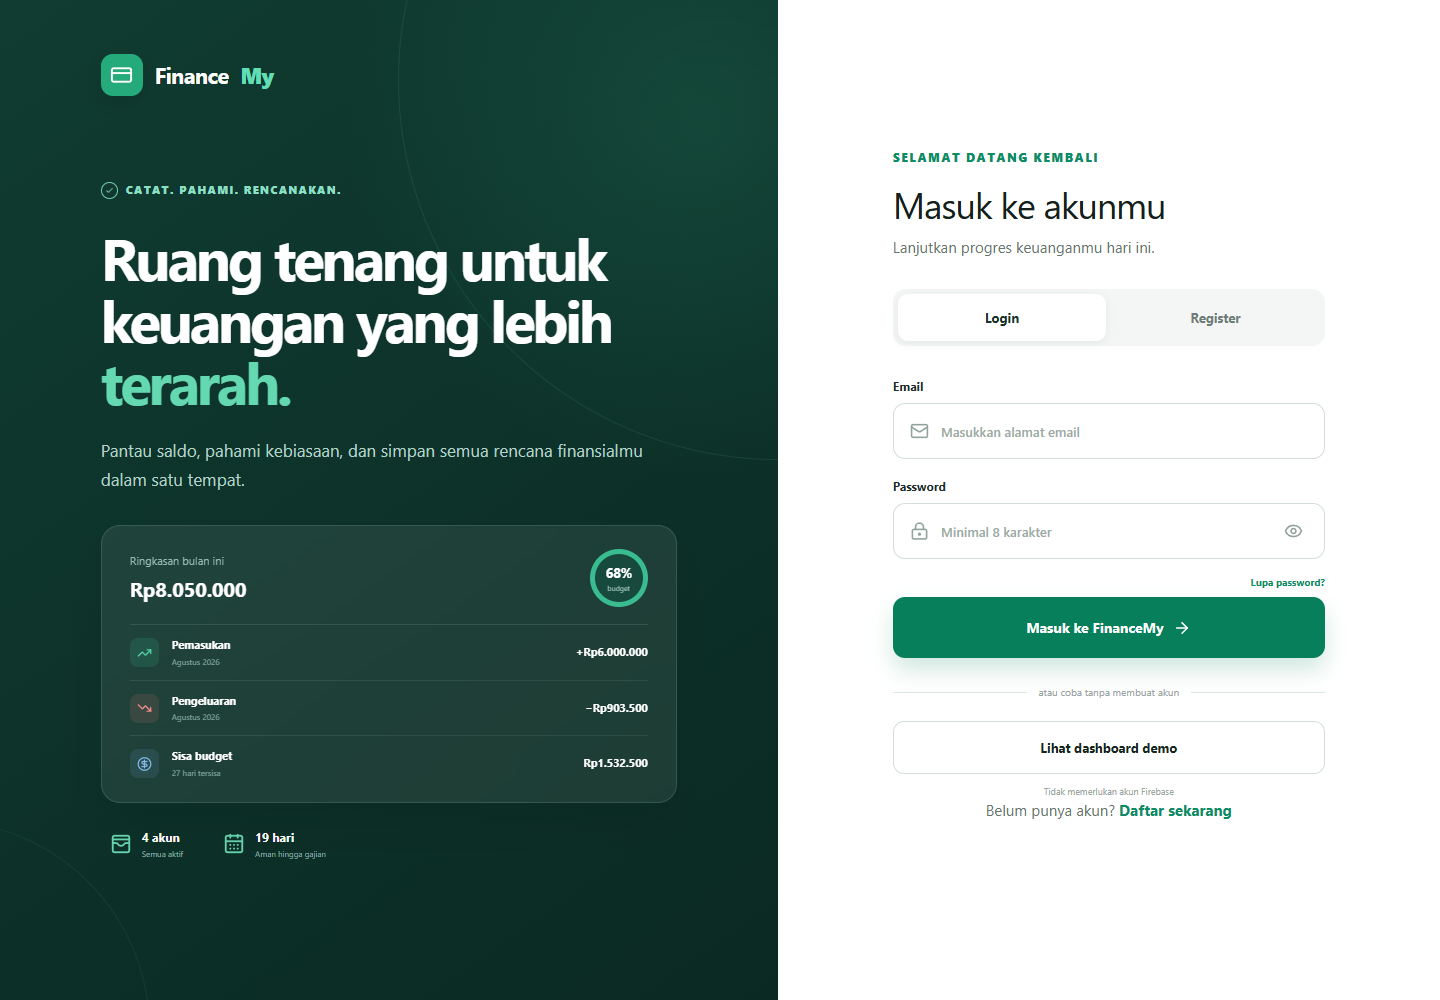
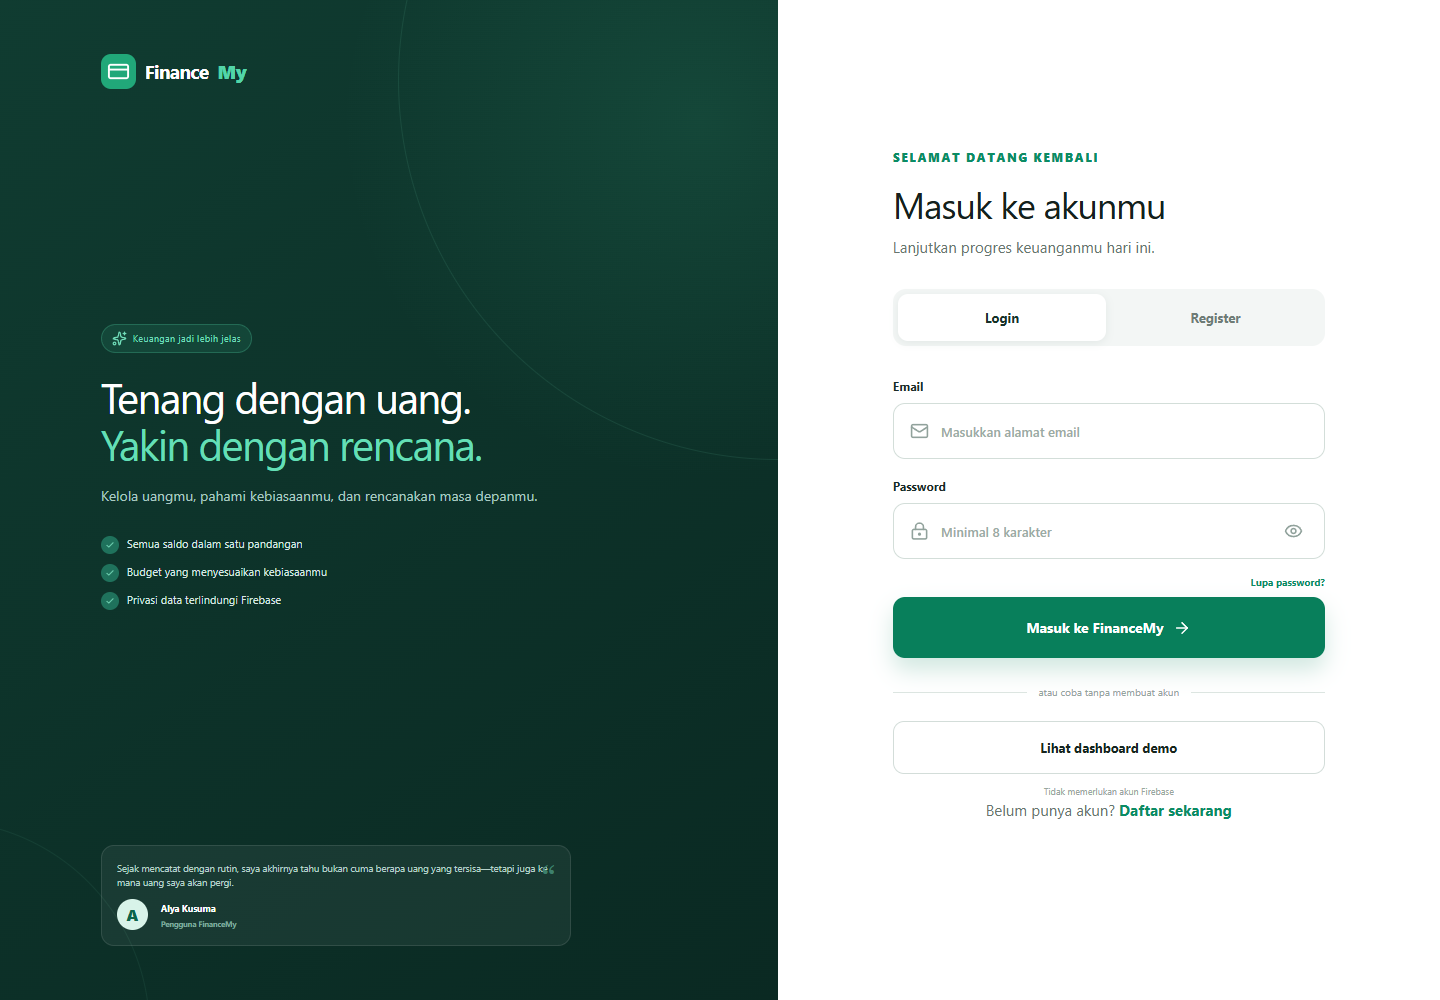
commit desain sedikit

diff --git a/FinanceMy/src/pages/auth/AuthPage.jsx b/FinanceMy/src/pages/auth/AuthPage.jsx
@@ -1,7 +1,7 @@
 import { useState } from 'react'
 import { Link, useNavigate } from 'react-router-dom'
 import { useForm } from 'react-hook-form'
-import { ArrowRight, CalendarDays, Check, CircleDollarSign, CreditCard, Eye, EyeOff, LockKeyhole, Mail, ShieldCheck, TrendingDown, TrendingUp, UserRound, WalletCards } from 'lucide-react'
+import { ArrowRight, Check, CreditCard, Eye, EyeOff, LockKeyhole, Mail, ShieldCheck, Sparkles, UserRound } from 'lucide-react'
 import { useAuth } from '../../context/AuthContext'
 
 const messages = {
@@ -47,21 +47,18 @@ export default function AuthPage({ mode = 'login' }) {
 
   return <main className="auth-reference-page">
     <section className="auth-reference-visual">
-      <Link className="reference-brand" to="/"><span><CreditCard /></span>Finance<b>My</b></Link>
-      <div className="reference-hero">
-        <span className="reference-kicker"><Check /> CATAT. PAHAMI. RENCANAKAN.</span>
-        <h1>Ruang tenang untuk keuangan yang lebih <em>terarah.</em></h1>
-        <p>Pantau saldo, pahami kebiasaan, dan simpan semua rencana finansialmu dalam satu tempat.</p>
-
-        <article className="reference-summary-card">
-          <header><div><small>Ringkasan bulan ini</small><strong>Rp8.050.000</strong></div><span><b>68%</b><small>budget</small></span></header>
-          <div className="reference-summary-row"><i className="income"><TrendingUp /></i><span><strong>Pemasukan</strong><small>Agustus 2026</small></span><b>+Rp6.000.000</b></div>
-          <div className="reference-summary-row"><i className="expense"><TrendingDown /></i><span><strong>Pengeluaran</strong><small>Agustus 2026</small></span><b>−Rp903.500</b></div>
-          <div className="reference-summary-row"><i className="balance"><CircleDollarSign /></i><span><strong>Sisa budget</strong><small>27 hari tersisa</small></span><b>Rp1.532.500</b></div>
-        </article>
-
-        <div className="reference-mini-stats"><span><WalletCards/><strong>4 akun<small>Semua aktif</small></strong></span><span><CalendarDays/><strong>19 hari<small>Aman hingga gajian</small></strong></span></div>
+      <Link className="auth-brand" to="/"><span><CreditCard size={23}/></span>Finance<b>My</b></Link>
+      <div className="auth-copy">
+        <span className="auth-kicker"><Sparkles size={15}/> Keuangan jadi lebih jelas</span>
+        <h1>Tenang dengan uang.<br/><em>Yakin dengan rencana.</em></h1>
+        <p>Kelola uangmu, pahami kebiasaanmu, dan rencanakan masa depanmu.</p>
+        <div className="auth-benefits">
+          <span><Check/>Semua saldo dalam satu pandangan</span>
+          <span><Check/>Budget yang menyesuaikan kebiasaanmu</span>
+          <span><Check/>Privasi data terlindungi Firebase</span>
+        </div>
       </div>
+      <div className="auth-quote"><div className="quote-icon">“</div><p>Sejak mencatat dengan rutin, saya akhirnya tahu bukan cuma berapa uang yang tersisa—tetapi juga ke mana uang saya akan pergi.</p><span className="quote-avatar">A</span><strong>Alya Kusuma<small>Pengguna FinanceMy</small></strong></div>
     </section>
 
     <section className="auth-reference-form-wrap">
